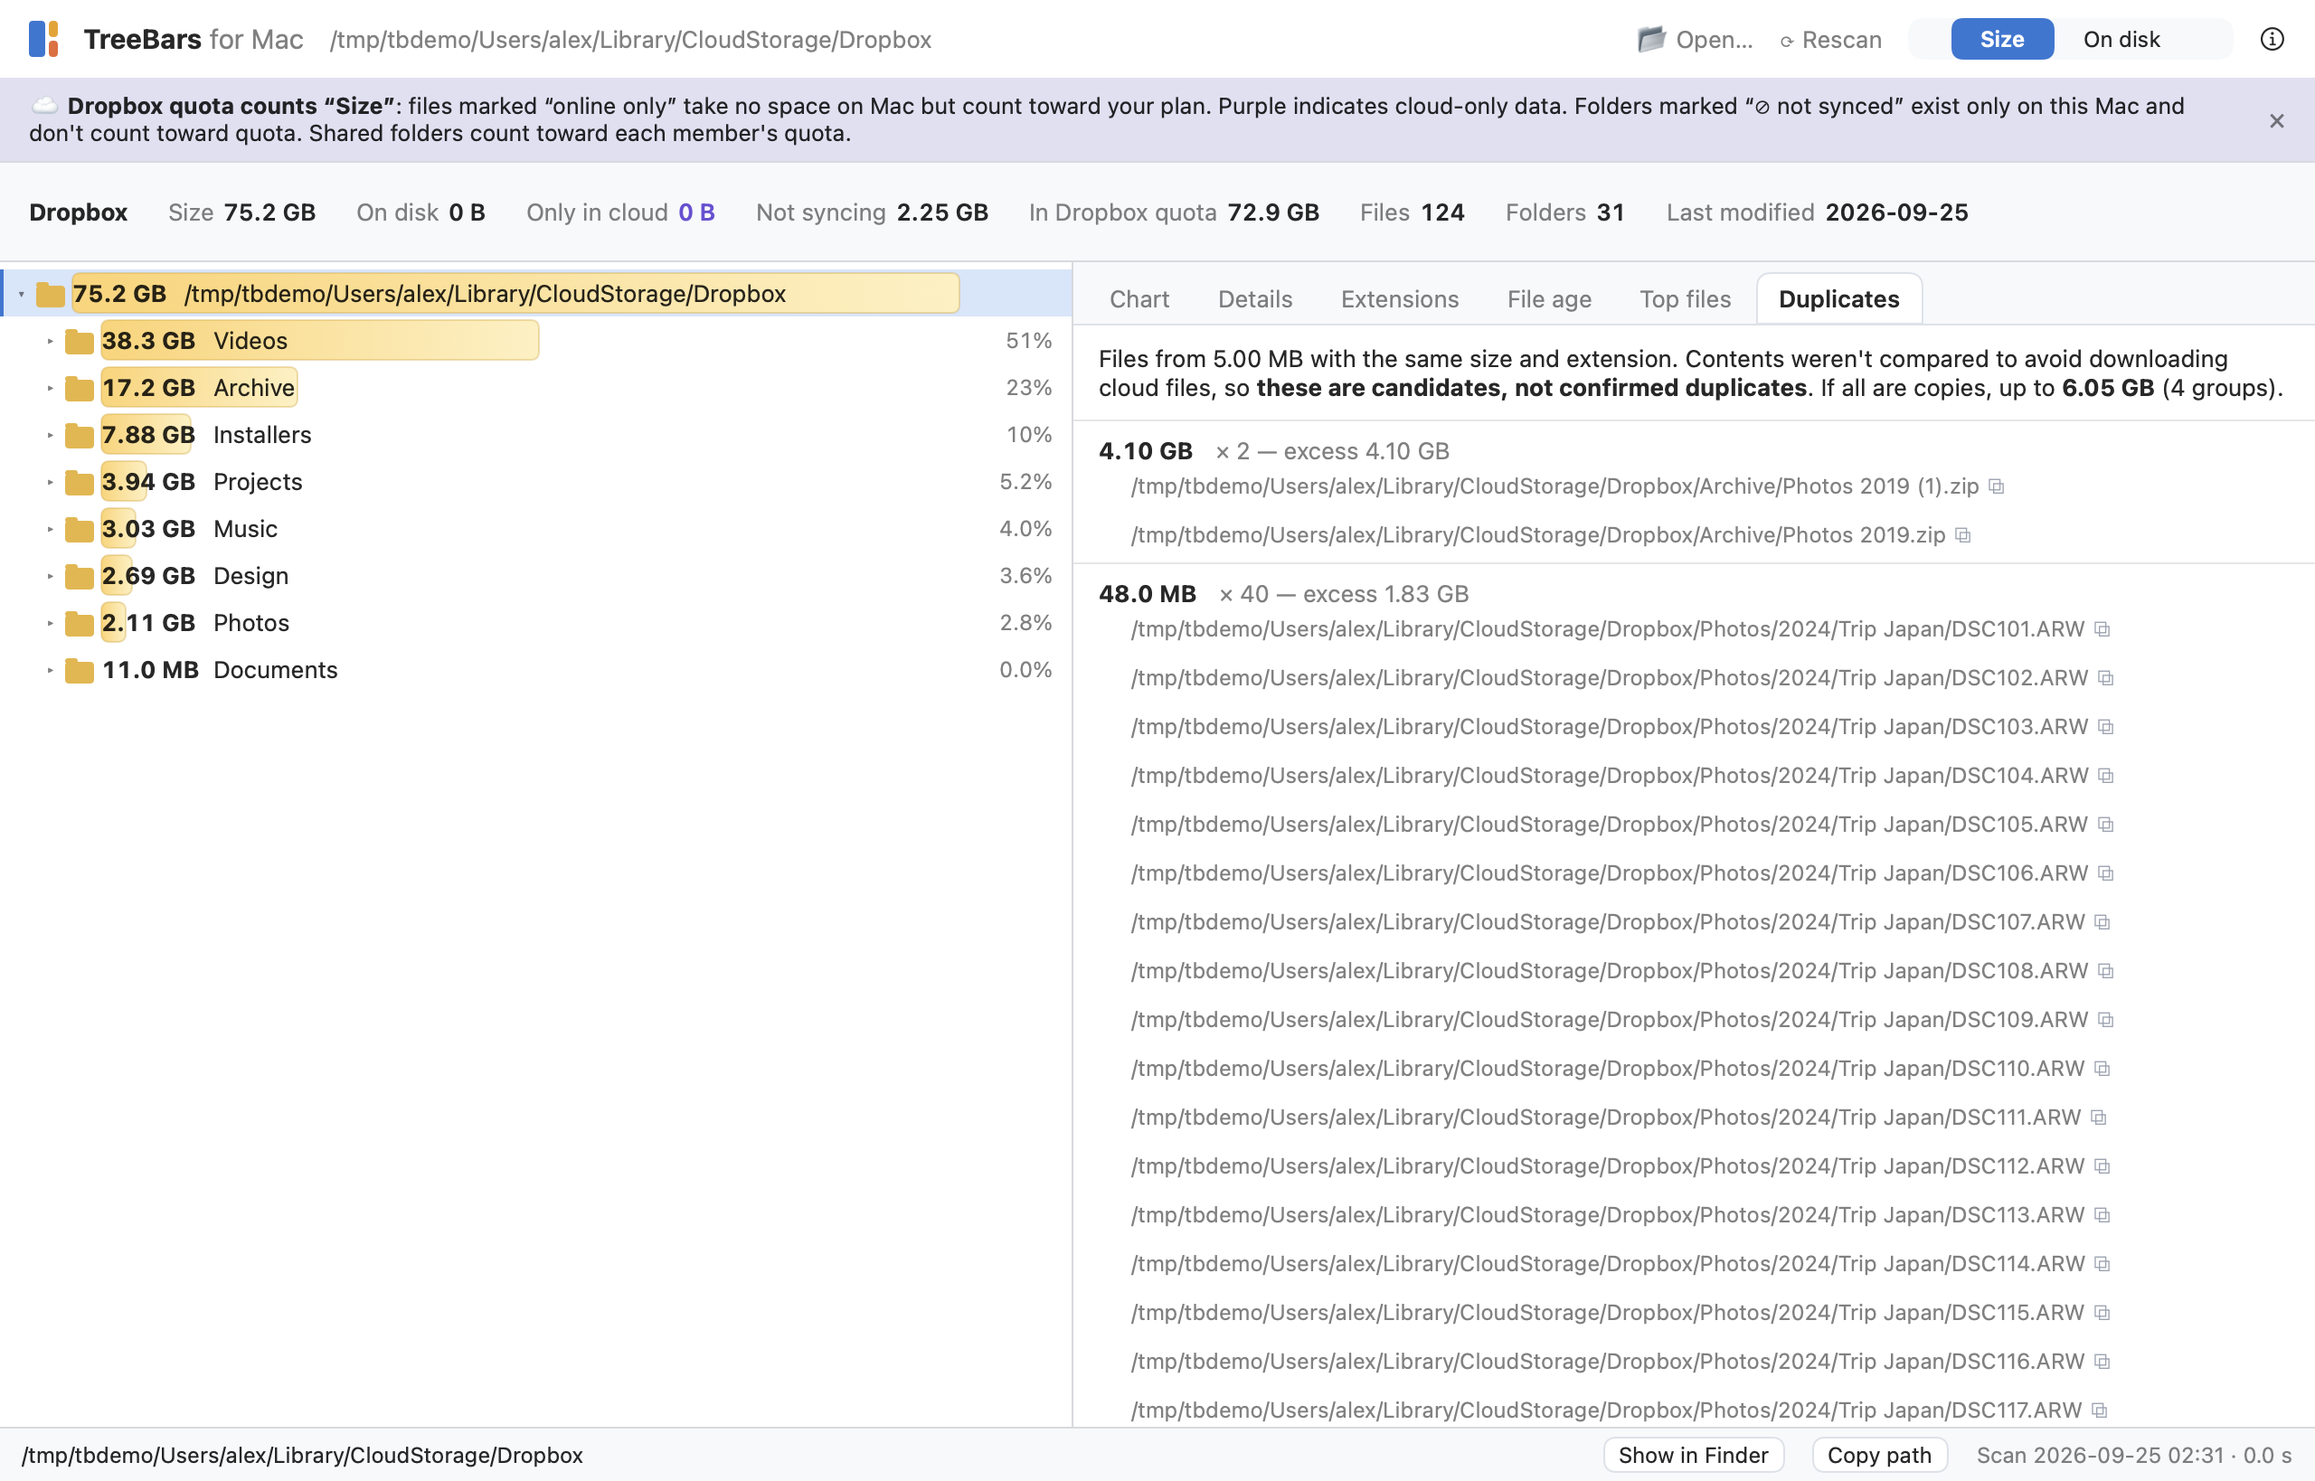
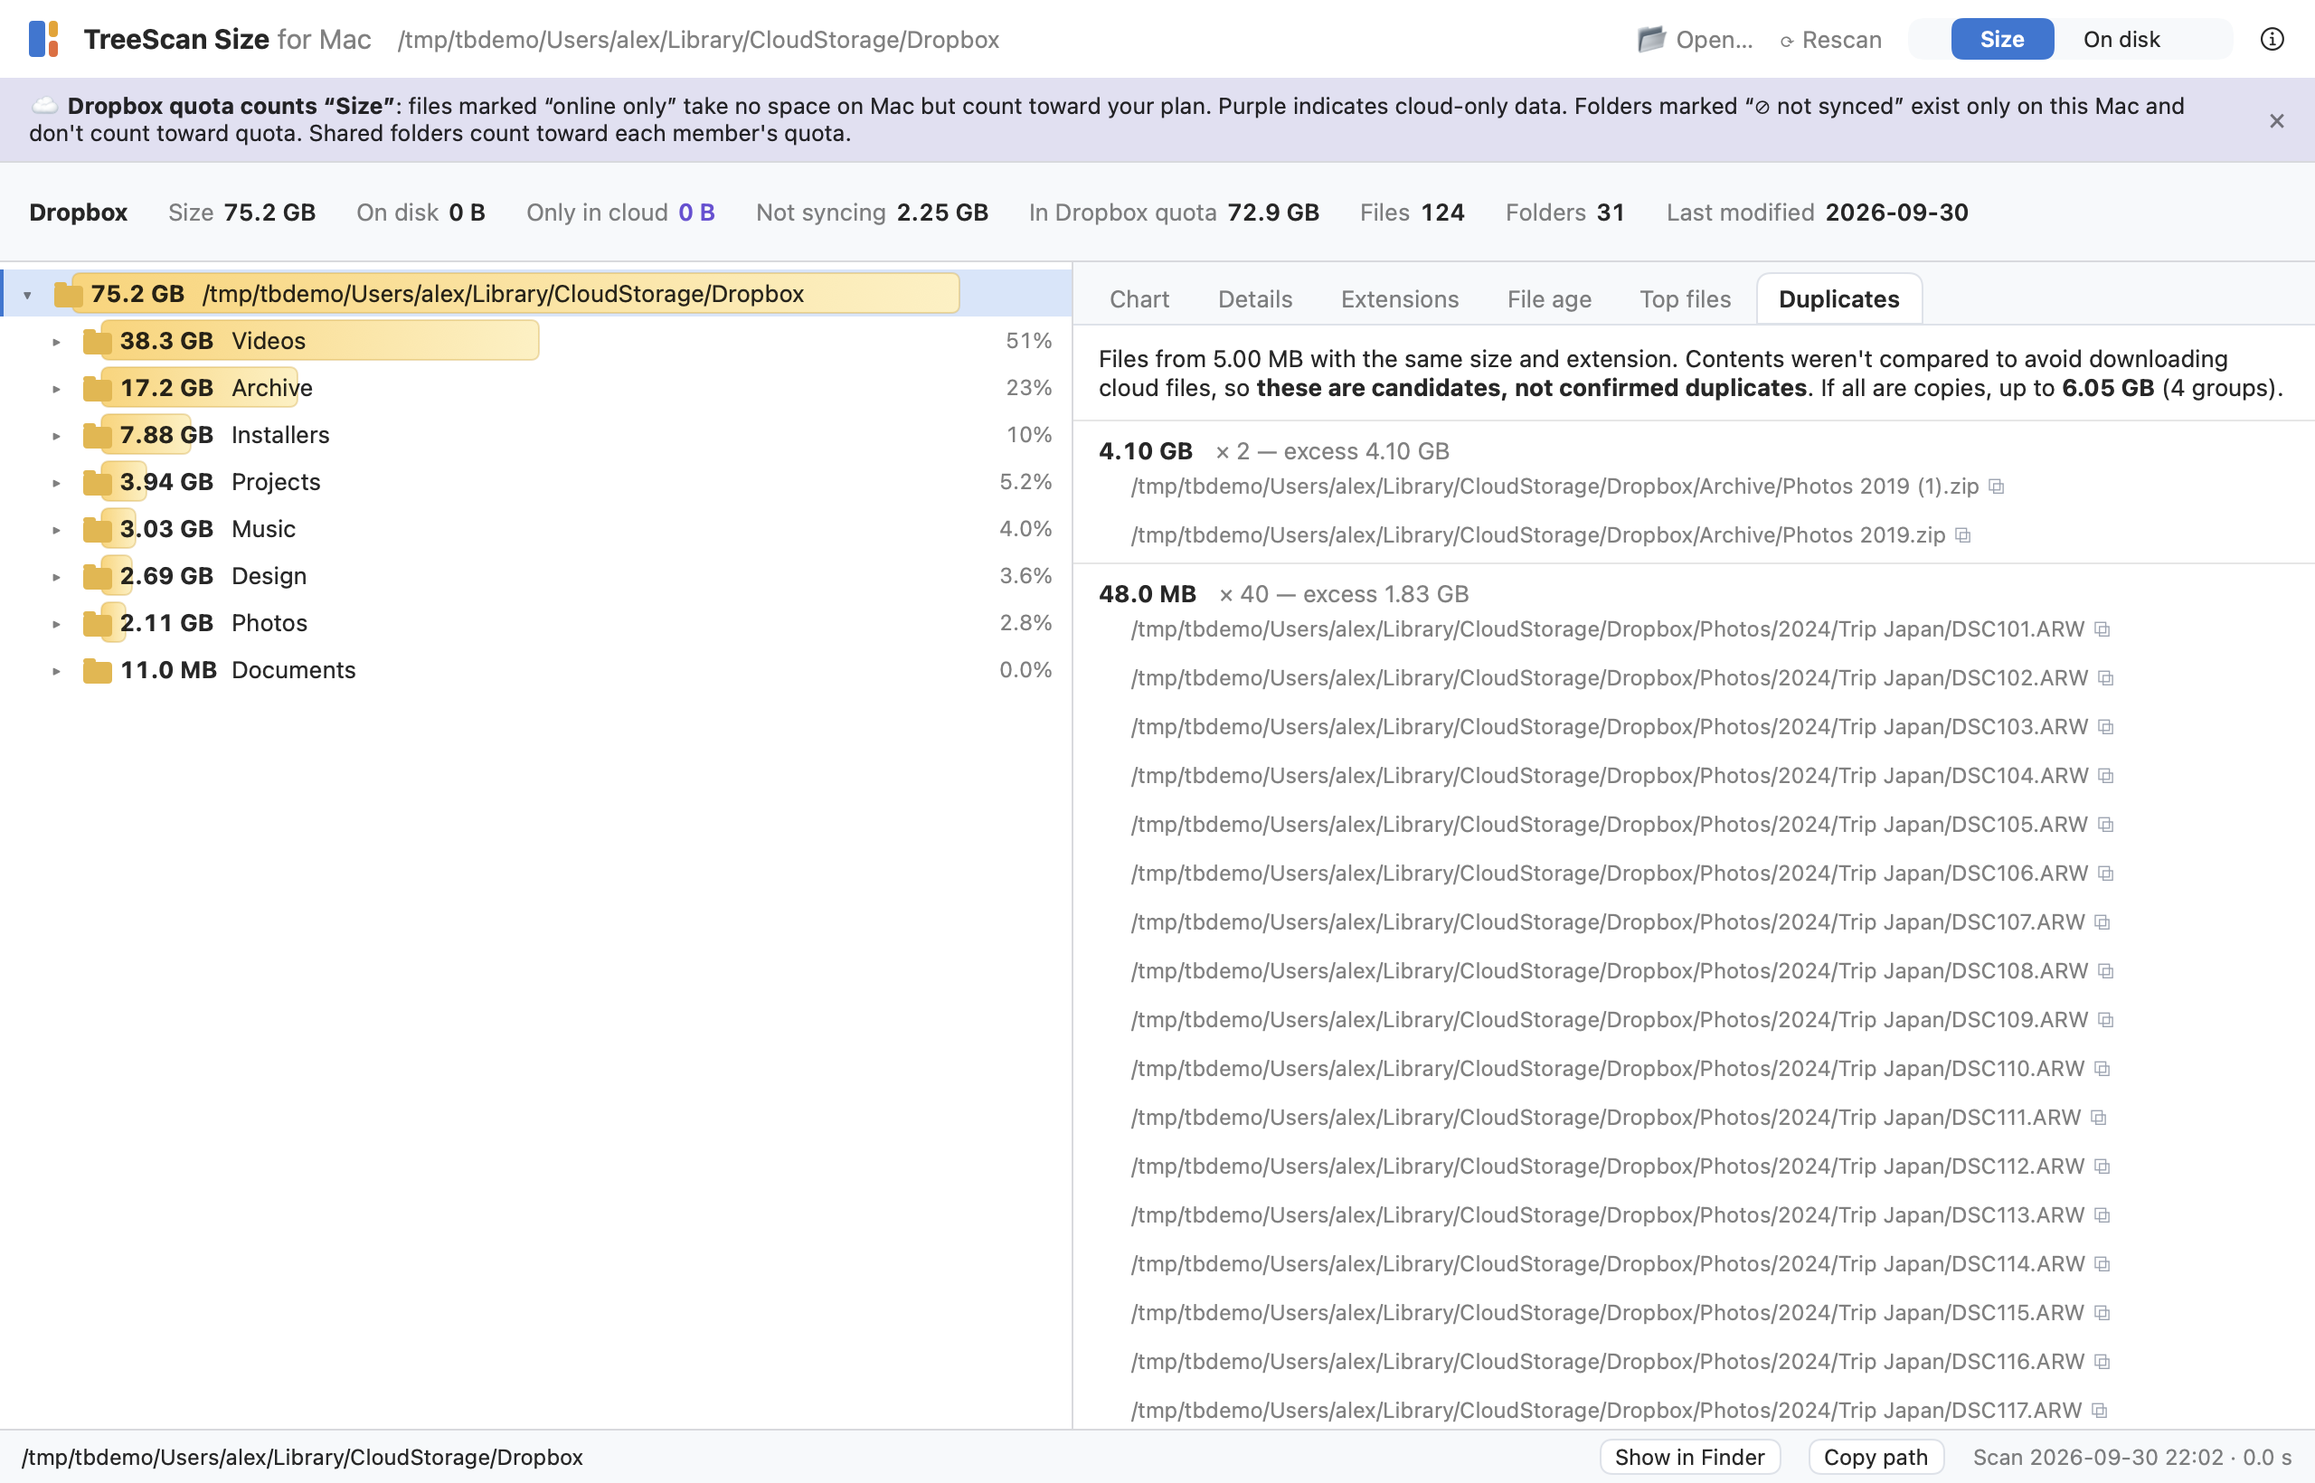
README и публичные файлы под TreeScan Size; витринные снимки (живой скан, стартовый экран, доступ)

diff --git a/public/README.md b/public/README.md
@@ -1,79 +1,105 @@
-<p align="center"><img src="docs/screenshots/icon.png" width="96" alt=""></p>
+<p align="center">
+  <img src="docs/screenshots/icon.png" width="128" alt="TreeScan Size icon">
+</p>
 
-<h1 align="center">TreeBars</h1>
+<h1 align="center">TreeScan Size</h1>
 
-<p align="center"><b>See what fills your Mac — as a folder tree with size bars.</b><br>
-Free, open source, no network. Understands Dropbox and iCloud.</p>
+<p align="center">
+  <b>See what fills your Mac — as a folder tree with size bars.</b><br>
+  Free and open source. No network, no tracking. Understands Dropbox, iCloud and OneDrive.
+</p>
 
-<p align="center"><a href="README.zh-CN.md">简体中文</a> · <a href="README.ja.md">日本語</a></p>
+<p align="center">
+  <a href="https://github.com/gorbarov/treescan-size/releases/latest"><img src="https://img.shields.io/github/v/release/gorbarov/treescan-size?label=download&color=2a78d6" alt="Download"></a>
+  <img src="https://img.shields.io/badge/macOS-14%2B-lightgrey" alt="macOS 14+">
+  <img src="https://img.shields.io/badge/Apple%20Silicon-native-lightgrey" alt="Apple Silicon">
+  <img src="https://img.shields.io/badge/SwiftUI-100%25-orange" alt="SwiftUI">
+  <a href="LICENSE"><img src="https://img.shields.io/badge/license-MIT-green" alt="MIT"></a>
+  <img src="https://img.shields.io/badge/languages-9-blueviolet" alt="9 languages">
+</p>
 
-<p align="center"><img src="docs/screenshots/pie-en.png" width="860" alt="TreeBars: folder tree with size bars and a pie chart"></p>
+<p align="center">
+  <a href="README.zh-CN.md">简体中文</a> · <a href="README.ja.md">日本語</a>
+</p>
+
+<p align="center">
+  <img src="docs/screenshots/pie-en.png" width="900" alt="TreeScan Size: folder tree with size bars and a chart">
+</p>
+
+---
 
 ## Why
 
-Finder can't tell you which folders ate your disk. Disk analyzers for the Mac show rings or treemaps. TreeBars shows the view Windows users know from TreeSize: **a plain folder tree where every row has a size bar and its share of the parent**. Scroll down, and you see what to clean up.
+Finder can't tell you which folders ate your disk. Most disk analyzers for the Mac draw rings or treemaps. **TreeScan Size shows the view Windows users know from TreeSize:** a plain folder tree where every row has a size bar and its share of the parent. Scroll down — and you know what to clean up.
 
-## Features
+## Highlights
 
-- **Folder tree with size bars** and percentages, sorted by size, with keyboard navigation.
-- **Chart** of the selected folder, plus **Details**, **Extensions**, **File age**, **Top files** and **Duplicates** tabs.
-- **Cloud-aware.** Dropbox and iCloud "online-only" files are marked: they count toward your cloud plan but take no space on the Mac. For Dropbox folders you can choose **Don't sync** right from the context menu.
-- **Size / On disk toggle.** *Size* is what files weigh and what cloud quotas count. *On disk* is the space they really take on this Mac. Cloud-only files are ~0 on disk; sparse files such as a Docker or VM disk can show 460 GB of size while using 39 GB.
-- **Duplicate candidates** — same size and extension, found without downloading cloud files.
-- **Safe:** files go to the Trash only, after a confirmation; system folders are protected.
-- **Private:** no network access, no analytics, no accounts. See [PRIVACY.md](PRIVACY.md).
-- Light and dark themes. **9 languages:** English, 简体中文, 日本語, 한국어, Deutsch, Español, Français, Português, Русский.
-
-| Folder chart | Top files | Duplicates |
-|---|---|---|
-| <img src="docs/screenshots/tree-videos-en.png" alt="Chart of a selected folder"> | <img src="docs/screenshots/top-en.png" alt="Top files in a folder"> | <img src="docs/screenshots/duplicates-en.png" alt="Duplicate candidates"> |
-
-| Dark theme | Size vs On disk, explained in the app |
+|  |  |
 |---|---|
-| <img src="docs/screenshots/details-dark-en.png" alt="Details, dark theme"> | <img src="docs/screenshots/mode-help-en.png" width="360" alt="Size vs On disk help"> |
+| 🌳 **Tree with size bars** | Every folder shows its size and % of the parent, sorted biggest first. Arrow keys, click anywhere on a row. |
+| ⚡ **Live scan** | The tree fills in while the scan runs, with a real progress bar (percent of the used disk space). No waiting behind a spinner. |
+| ☁ **Cloud-aware** | Dropbox, iCloud and OneDrive "online-only" files are marked: they count toward your cloud plan but take no space on the Mac. Mark a Dropbox folder **Don't sync** right from the menu. |
+| ⚖ **Size vs On disk** | *Size* is what files weigh and what cloud quotas count. *On disk* is what they really take on this Mac. A Docker or VM disk can "weigh" 460 GB and use 39 GB — you see both. |
+| 🔍 **Six views** | Chart, Details, Extensions, File age, Top files, Duplicate candidates (found without downloading cloud files). |
+| 🛡 **Safe and private** | Trash only, with a confirmation; system folders are protected. No network access at all, no analytics, no accounts. See [PRIVACY.md](PRIVACY.md). |
+| 🌍 **9 languages** | English, 简体中文, 日本語, 한국어, Deutsch, Español, Français, Português, Русский. Light and dark theme. |
+
+## Screenshots
+
+| Live scan | Top files | Duplicate candidates |
+|---|---|---|
+| <img src="docs/screenshots/live-en.png" alt="Live scan with progress"> | <img src="docs/screenshots/top-en.png" alt="Top files in a folder"> | <img src="docs/screenshots/duplicates-en.png" alt="Duplicate candidates"> |
+
+| What to scan? | Dark theme | Size vs On disk, explained |
+|---|---|---|
+| <img src="docs/screenshots/welcome-en.png" alt="Start screen"> | <img src="docs/screenshots/details-dark-en.png" alt="Details, dark theme"> | <img src="docs/screenshots/mode-help-en.png" alt="Size vs On disk help"> |
 
 ## Install
 
 Requires **macOS 14 Sonoma or later** on **Apple Silicon**.
 
-1. Download `TreeBars.zip` from [Releases](https://github.com/gorbarov/treebars/releases), unzip it and move `TreeBars.app` to Applications.
-2. The current build is **not notarized yet** (notarization is coming), so macOS will block the first launch:
-   - **macOS 15 and later:** open the app once, click *Done*, then go to **System Settings → Privacy & Security** and click **Open Anyway**.
+1. Download **TreeScan Size.zip** from [Releases](https://github.com/gorbarov/treescan-size/releases/latest), unzip it and move the app to Applications.
+2. The build is **not notarized yet**, so macOS blocks the first launch:
+   - **macOS 15 and later:** open the app once, click *Done*, then **System Settings → Privacy & Security → Open Anyway**.
    - **macOS 14:** right-click the app → **Open** → **Open**.
-   - Or in Terminal: `xattr -dr com.apple.quarantine /Applications/TreeBars.app`
-
-To scan protected places (Mail, Messages, other users' data), give the app **Full Disk Access** in System Settings → Privacy & Security. It's optional: without it those folders are simply skipped.
+   - Or in Terminal: `xattr -dr com.apple.quarantine "/Applications/TreeScan Size.app"`
+3. On first launch the app asks for **Full Disk Access** — one switch in System Settings instead of a dozen macOS prompts for Desktop, Documents, iCloud and other apps' data. You can skip it: protected folders are then simply marked 🔒 and not read.
 
 ### Build from source
 
 ```bash
-git clone https://github.com/gorbarov/treebars && cd treebars
-scripts/make_app.sh          # needs only Command Line Tools (Swift 5.9+), no Xcode
-open build/TreeBars.app
+git clone https://github.com/gorbarov/treescan-size && cd treescan-size
+scripts/make_app.sh          # Command Line Tools are enough (Swift 5.9+), no Xcode needed
+open "build/TreeScan Size.app"
 ```
 
 ## Compared to other tools
 
-| | TreeBars | DaisyDisk | GrandPerspective | OmniDiskSweeper | Disk Inventory X |
+| | TreeScan Size | DaisyDisk | GrandPerspective | OmniDiskSweeper | Disk Inventory X |
 |---|---|---|---|---|---|
-| Main view | tree with size bars + pie | sunburst rings | treemap | column list | treemap + list |
+| Main view | tree with size bars + chart | sunburst rings | treemap | column list | treemap + list |
 | Price | free | paid | free (paid in App Store) | free | free |
 | Source code | open, MIT | closed | open, GPL | closed | open, GPL |
 
-What TreeBars adds on top: marks Dropbox/iCloud online-only files, "Don't sync" for Dropbox folders, a Size / On disk toggle, and duplicate candidates without downloading cloud files.
+On top of that: online-only cloud files marked, Dropbox "Don't sync" from the menu, Size / On disk toggle, live tree during the scan, duplicate candidates without downloading cloud files.
 
-*Based on public descriptions as of September 2026; corrections are welcome.*
+*Based on public descriptions as of September 2026 — corrections welcome.*
 
 ## How it was built
 
-TreeBars is also an experiment: **the code was written by a cheap coding model** (DeepSeek V4 Flash), while Claude Opus acted as the tech lead — wrote the spec, cut the work into small tasks with precomputed answers, and reviewed the code. A Python script and an HTML report ([reference/](reference/)) served as the reference implementation. Total model cost was about $3.
+TreeScan Size is also an experiment. **The code was written by a cheap coding model** (DeepSeek V4 Flash) while Claude Opus acted as the tech lead: wrote the spec, cut the work into ~25 small tasks with precomputed answers, reviewed every risky line. A Python script and an HTML report ([reference/](reference/)) served as the reference implementation.
 
-The cheap model did well on logic with a reference and on UI with a code skeleton. It also once disabled the Trash menu's system-folder protection while every test was green — only code review caught it. The findings, tasks, checks and the lessons list are in [docs/FINDINGS.md](docs/FINDINGS.md) and [docs/RESEARCH.md](docs/RESEARCH.md) (in Russian; English write-up coming).
+What we learned, in short:
+- A cheap model is great at a laid-out path: port logic from a reference, build UI from a code skeleton.
+- Green tests are not enough: it once disabled the Trash menu's system-folder protection while every test passed — only code review caught it.
+- A 500-file test folder hides what 2.9 million files show: one tab took 9 minutes to draw on a real disk. Real-size checks found it, a human found the rest.
+
+The full story — tasks, checks, lessons, run logs — is in [docs/FINDINGS.md](docs/FINDINGS.md) and [docs/RESEARCH.md](docs/RESEARCH.md) (in Russian); run logs are attached to the [release](https://github.com/gorbarov/treescan-size/releases/latest).
 
 ## Contributing
 
-Bug reports, translations and native-speaker reviews are welcome — see [CONTRIBUTING.md](CONTRIBUTING.md).
+Bug reports, translations and native-speaker reviews are very welcome — see [CONTRIBUTING.md](CONTRIBUTING.md).
 
 ## License and trademarks
 
-[MIT](LICENSE). TreeBars is inspired by TreeSize for Windows but is **not affiliated with or endorsed by JAM Software**. TreeSize is a registered trademark of Joachim Marder e.K. (JAM Software). Dropbox, iCloud and macOS are trademarks of their respective owners.
+[MIT](LICENSE). TreeScan Size is inspired by TreeSize for Windows but is **not affiliated with or endorsed by JAM Software**. TreeSize is a registered trademark of Joachim Marder e.K. (JAM Software). Dropbox, iCloud, OneDrive and macOS are trademarks of their respective owners.

diff --git a/public/CONTRIBUTING.md b/public/CONTRIBUTING.md
@@ -8,7 +8,7 @@ Requires macOS 14+ and Swift 5.9+ (Command Line Tools are enough, Xcode is not r
 
 ```bash
 swift build -c release
-scripts/make_app.sh          # builds build/TreeBars.app
+scripts/make_app.sh          # builds "build/TreeScan Size.app"
 ```
 
 ## Checks
@@ -28,9 +28,9 @@ tools/check_task.sh 03                           # model / format / action facts
 
 UI strings live in `Sources/TreeSizeCore/L10n_<code>.swift`. The Russian source string is the key. To add a language:
 
-1. Copy `L10n_en.swift` to `L10n_<code>.swift` and translate the values (keep leading/trailing spaces, emoji and `**bold**` markers).
+1. Copy `L10n_en.swift` to `L10n_<code>.swift` and translate the values (keep leading/trailing spaces, emoji, `**bold**` markers and the `{app}` placeholder — it is replaced with the app name).
 2. Register the table in `L10n.tables` in `L10n.swift`.
-3. Check it: `TREEBARS_LANG=<code> .build/release/TreeSizeApp --root /tmp/ts-fixture --snapshot /tmp/snap.png --tab pie`.
+3. Check it: `python3 tools/check_l10n.py`, then `TREEBARS_LANG=<code> .build/release/TreeSizeApp --root /tmp/ts-fixture --snapshot /tmp/snap.png --tab pie`.
 
 Native-speaker reviews of the existing translations (zh, ja, ko, de, es, fr, pt) are very welcome too — they were drafted by a language model.
 

diff --git a/public/PRIVACY.md b/public/PRIVACY.md
@@ -1,12 +1,12 @@
 # Privacy Policy
 
-TreeBars does not collect, store or transmit any personal data.
+TreeScan Size does not collect, store or transmit any personal data.
 
 - The app makes no network connections: no analytics, no crash reporting, no update checks, no accounts.
 - Scan results (the list of your files and folders) stay in the app's memory on your Mac and are discarded when you quit.
 - The app remembers only the path of the last folder you opened and your view settings (Size / On disk, a dismissed hint), in the standard macOS preferences on your Mac.
 - The app changes files only when you ask it to: "Move to Trash" (after a confirmation) and, for Dropbox folders, "Don't sync" (sets the `com.apple.fileprovider.ignore#P` extended attribute that Dropbox uses).
 
-Questions: open an issue at https://github.com/gorbarov/treebars/issues.
+Questions: open an issue at https://github.com/gorbarov/treescan-size/issues.
 
 Last updated: 2026-09-25.
